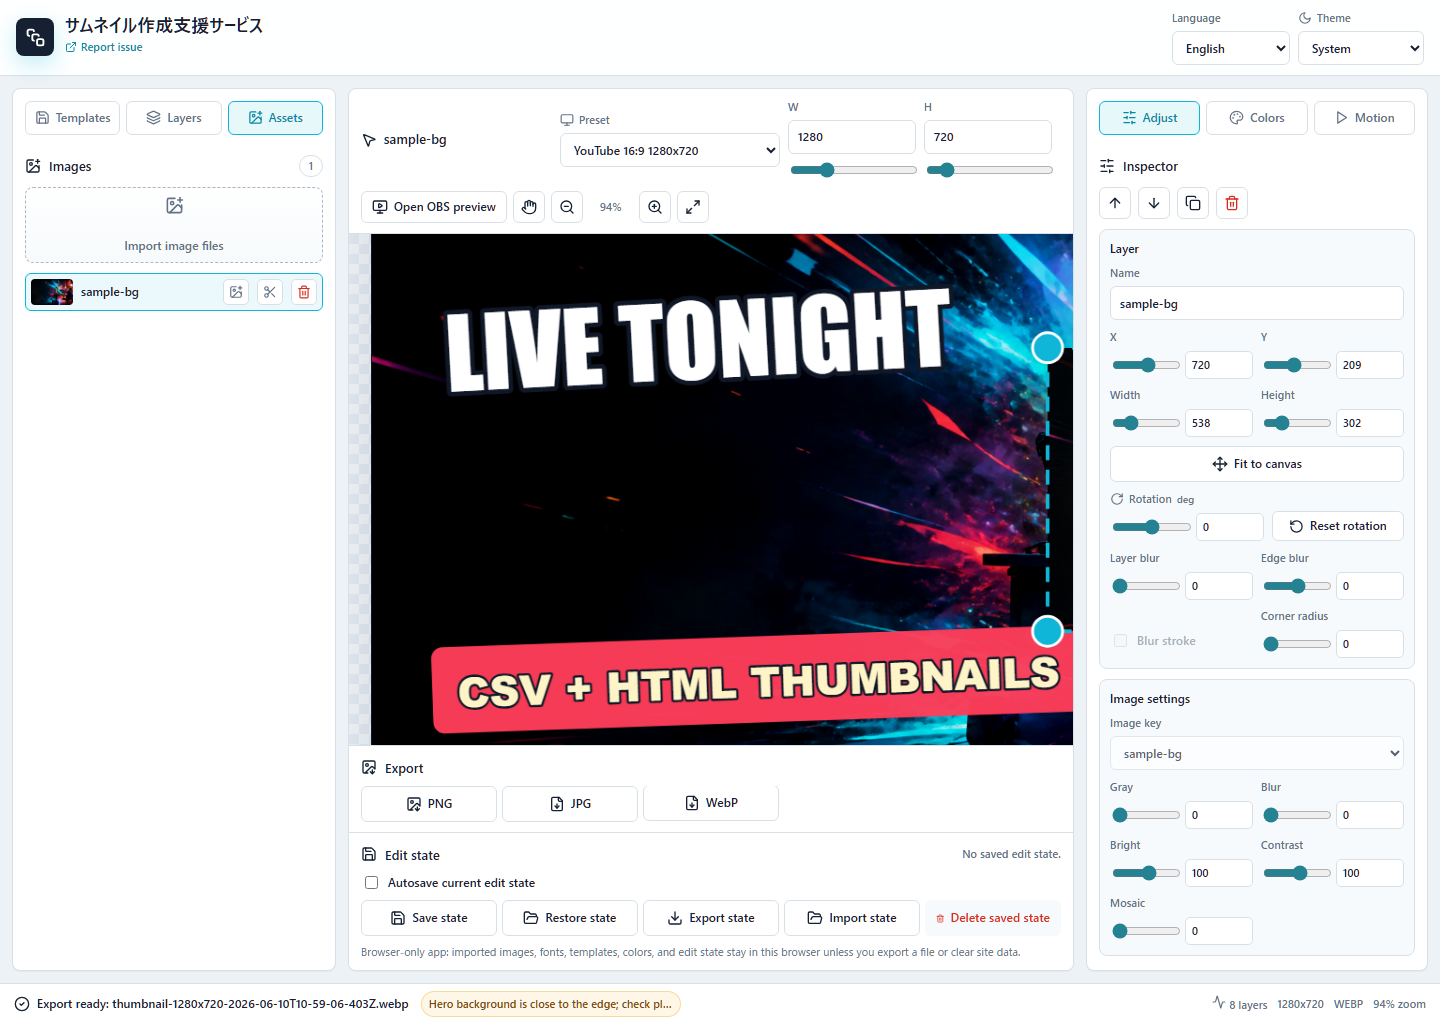
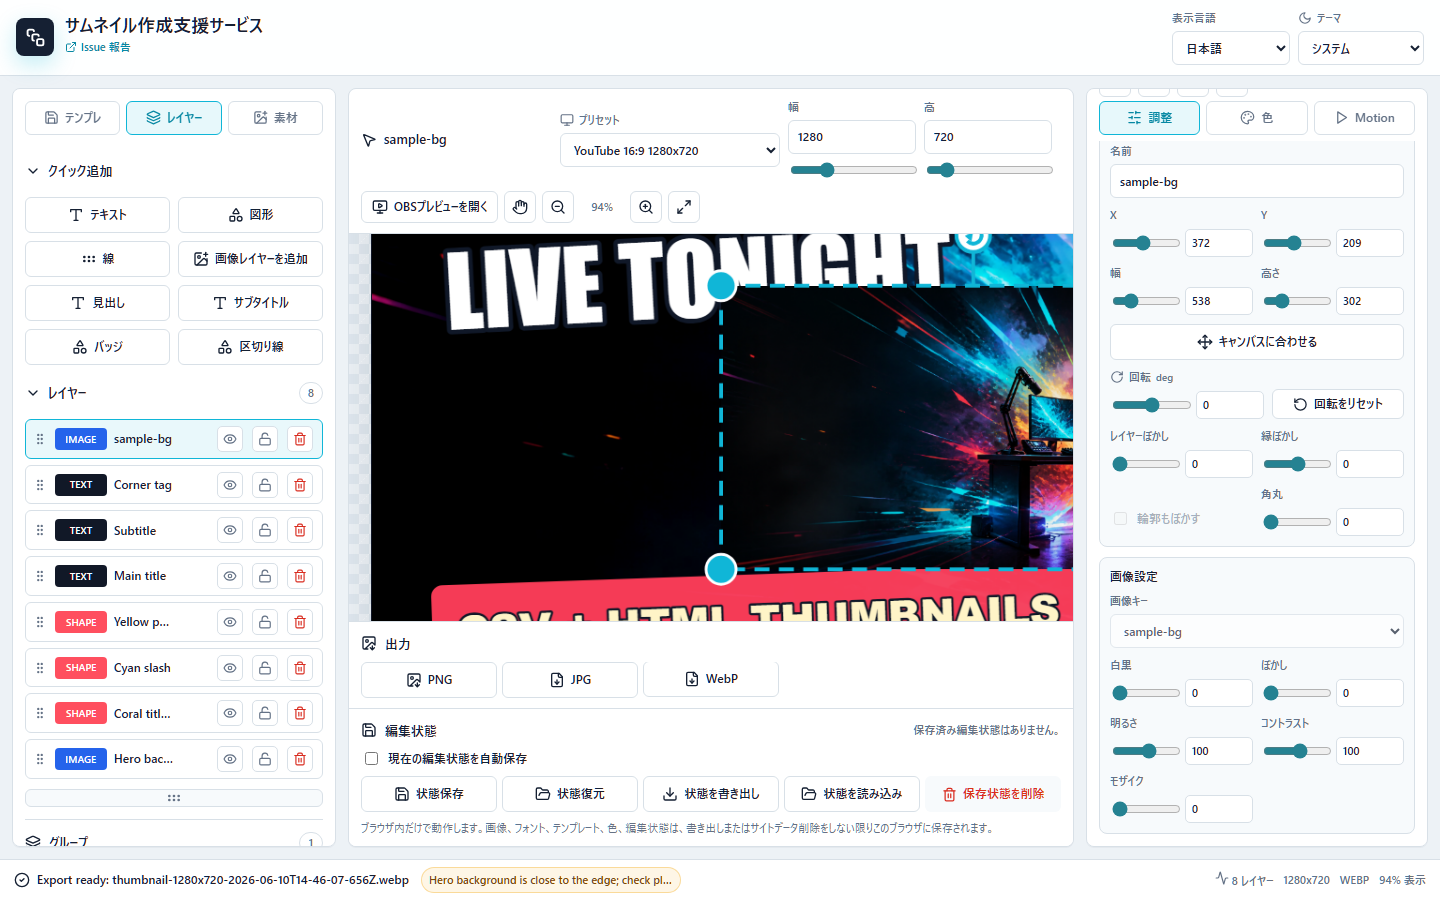
docs: record production image palette rollout evidence

diff --git a/docs/qcds-evaluation.md b/docs/qcds-evaluation.md
@@ -49,10 +49,13 @@ Evidence:
 - `docs/assets/runtime-20260610-schedule-builder-v3-mobile.png`
 - `docs/assets/runtime-20260610-image-palette-5colors-exclude-desktop.png`
 - `docs/assets/runtime-20260610-image-palette-5colors-exclude-mobile.png`
+- `docs/assets/runtime-20260610-image-palette-desktop.png`
+- `docs/assets/runtime-20260610-image-palette-mobile.png`
 
 Latest measured checks:
 
 - Image palette extraction modal (beta): pass. Selected image opened the Colors image-color extractor modal in beta mode, extracted candidates from 3/4/5 target counts, captured an excluded color by clicking the preview image, registered the resulting palette via modal action, and closed successfully.
+- Image palette extraction modal (production): pass. Opened the image palette modal from Colors, displayed a hover lens code, added a previewed color to the exclusion list, changed Adjust X `371 -> 372`, exported WebP for desktop/mobile, and kept horizontal overflow at `0`.
 - `npm test`: pass. 28 test files, 111 tests.
 - `npm run build`: pass.
 - Beta schedule generator V3: pass. The modal opened from Templates, measured `1320px` wide with four desktop columns, exposed Adjust-shared fonts including Poppins 900, Noto Sans JP 900, and Impact, synchronized title/weekday/date/plan sliders to `72/24/34/20`, accepted `2026-06`, Japanese weekday language, and month/day date format, previewed `6/1`, generated a `6月 badge text` monthly label with grouping enabled, allowed an Adjust numeric edit after row switching, exported WebP, and kept mobile horizontal overflow at `0`.
@@ -336,3 +339,29 @@ Completed on 2026-06-10.
     - `output/runtime-downloads/20260610-schedule-color-picker-gate-2/desktop-thumbnail-1280x720-2026-06-10T05-35-56-556Z.webp`
     - `output/runtime-downloads/20260610-schedule-color-picker-gate-2/mobile-thumbnail-1280x720-2026-06-10T05-35-58-894Z.webp`
 - CSV/HTML note: controls are not dedicated visible panels in this build.
+
+### Image Palette Extraction Modal (Production Gate)
+
+- Scope: production runtime verification for hover lens color readout and excluded-color handling in the image palette modal.
+- Browser runtime evidence: Playwright headless Chromium passed at `http://127.0.0.1:4313/thumbnail-generator/`.
+- Browser plugin attempt: failed with `Browser is not available: iab`; Playwright headless Chromium fallback used.
+- Desktop viewport: `1440x1000`.
+- Mobile viewport: `390x844`.
+- Runtime checks:
+  - Colors tab opened the image-color extractor modal.
+  - Candidate count became `3`.
+  - Lens code read as `#021220`.
+  - Candidate code `#000008` appeared in the list.
+  - Exclusion flow changed count from `0` to `1`.
+  - Adjust X edit changed `371 -> 372`.
+  - Nonblank render and primary UI visibility.
+  - WebP export succeeded on desktop and mobile.
+  - Horizontal overflow was `0` on desktop and mobile.
+  - No page errors or app HTTP 4xx/5xx responses were reported.
+- Evidence screenshots:
+  - `docs/assets/runtime-20260610-image-palette-desktop.png`
+  - `docs/assets/runtime-20260610-image-palette-mobile.png`
+- Export evidence:
+  - `output/runtime-downloads/20260610-image-palette-production/desktop/thumbnail-1280x720-1781102767692.webp`
+  - `output/runtime-downloads/20260610-image-palette-production/mobile/thumbnail-1280x720-1781102774685.webp`
+- CSV/HTML note: visible panel controls remain unchanged from this build and parser compatibility is preserved.

diff --git a/docs/test-plan.md b/docs/test-plan.md
@@ -125,6 +125,43 @@ The WebApp runtime gate is passed only when Chrome or a headless browser confirm
 
 Latest completed on 2026-06-10.
 
+### Color Palette Extraction Modal (Image-based, Production Gate)
+
+Completed on 2026-06-10 for the production rollout of image palette extraction interactions.
+
+- `npm test`: pass. 28 test files, 112 tests.
+- `npm run build`: pass.
+- Runtime gate URL: `http://127.0.0.1:4313/thumbnail-generator/`.
+- Browser plugin attempt: failed with `Browser is not available: iab`; Playwright headless Chromium fallback used.
+- Desktop viewport: `1440x1000`.
+- Mobile viewport: `390x844`.
+- Checks:
+  - Nonblank app render.
+  - Left panel, preview, layer rows, and export controls were all visible.
+  - Colors tab opened the image-palette modal successfully.
+  - Candidate count became `3` in the preview extraction result.
+- Lens interaction details:
+  - Lens became visible on hover.
+  - Candidate code observed: `#000008`.
+  - Lens code read on hover: `#021220`.
+- Exclusion flow:
+  - Excluded color count changed from `0` to `1`.
+- Adjust-flow stability:
+  - Adjust X edit changed from `371` to `372` on desktop and `371` to `372` on mobile.
+- Export:
+  - WebP export succeeded on both desktop and mobile.
+- Overflow:
+  - Desktop horizontal overflow: `0`.
+  - Mobile horizontal overflow: `0`.
+- Console health:
+  - No page errors and no app HTTP 4xx/5xx responses were reported.
+- Evidence screenshots:
+  - `docs/assets/runtime-20260610-image-palette-desktop.png`
+  - `docs/assets/runtime-20260610-image-palette-mobile.png`
+- Export evidence:
+  - `output/runtime-downloads/20260610-image-palette-production/desktop/thumbnail-1280x720-1781102767692.webp`
+  - `output/runtime-downloads/20260610-image-palette-production/mobile/thumbnail-1280x720-1781102774685.webp`
+
 ### Color Palette Extraction Modal (Image-based)
 
 Completed on 2026-06-10 for the latest beta image-palette extraction flow.

diff --git a/docs/release-checklist.md b/docs/release-checklist.md
@@ -17,4 +17,4 @@
 - [x] Docs ZIP is generated.
 - [x] Git branch is pushed.
 
-Latest validation note: 2026-06-10 Beta schedule generator V3 passed `npm test` (28 files, 111 tests), `npm run build`, and a Playwright headless Chromium runtime gate at `http://127.0.0.1:4173/thumbnail-generator/`. The gate confirmed Templates-side Generate schedule entry, beta notice, pre-generation preview, desktop modal width `1320px` with four columns, Adjust-shared font choices including Poppins 900, Noto Sans JP 900, and Impact, separate title/weekday/date/plan sliders synchronized to `72/24/34/20`, calendar month input `2026-06`, Japanese weekday language, month/day date format, preview text `6/1`, generated monthly badge layer `6月 badge text`, generated-layer grouping enabled by default, Adjust numeric editing after switching rows, WebP export download, mobile preview visibility, mobile horizontal overflow `0`, and no page errors or app console errors. GitHub Pages deploys through `.github/workflows/pages.yml` on pushes to `codex/thumbnail-generator-static-app`.
+Latest validation note: 2026-06-10 Production image-palette rollout passed `npm test` (28 files, 112 tests), `npm run build`, and a Playwright headless Chromium runtime gate at `http://127.0.0.1:4313/thumbnail-generator/`. The gate confirmed image palette extraction candidates, hover lens code readout, exclusion count change (`0 -> 1`), Adjust X edit `371 -> 372`, desktop/mobile WebP export, desktop/mobile horizontal overflow `0`, and no page/HTTP errors. GitHub Pages deploys through `.github/workflows/pages.yml` on pushes to `codex/thumbnail-generator-static-app`.
